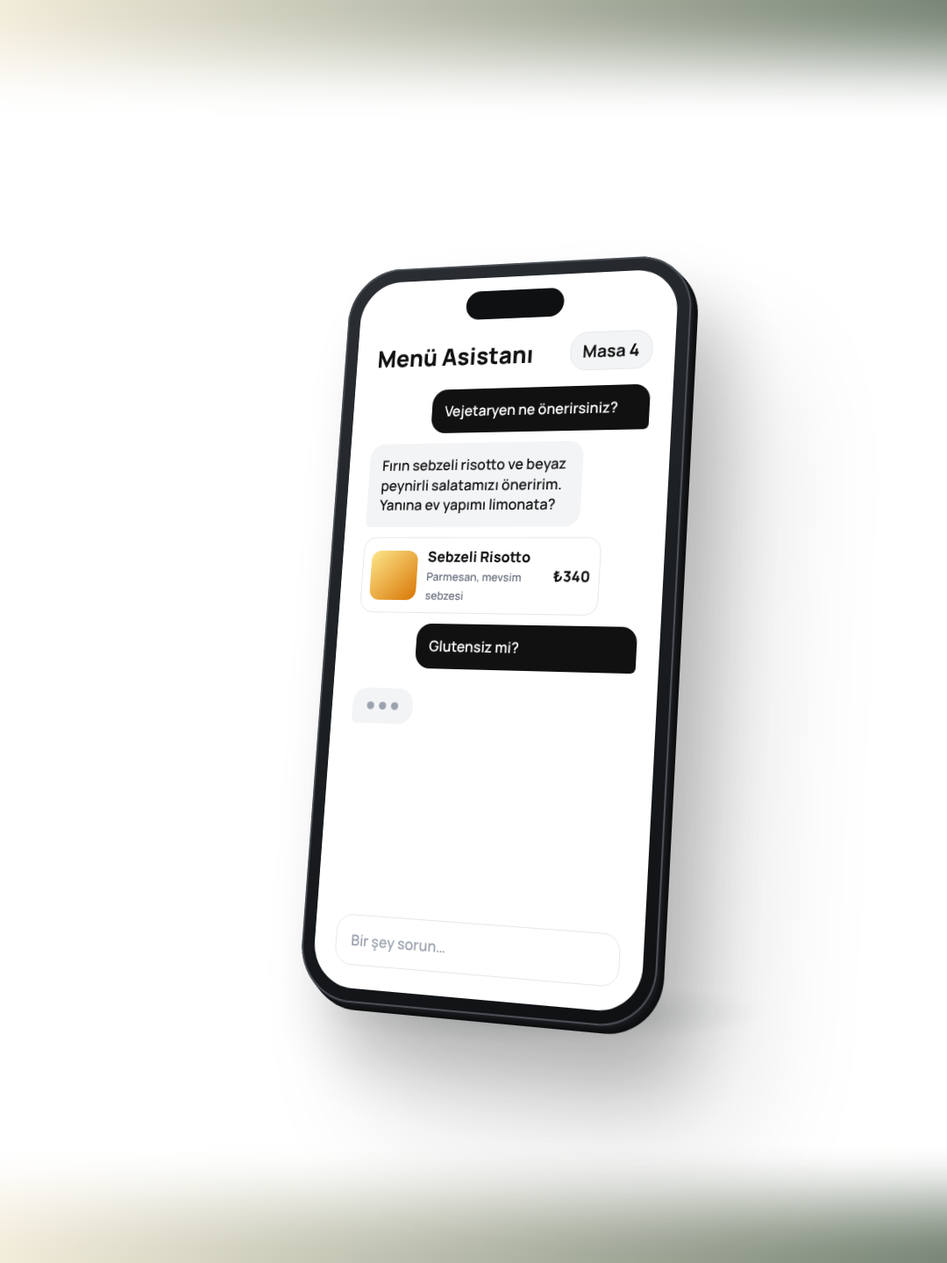
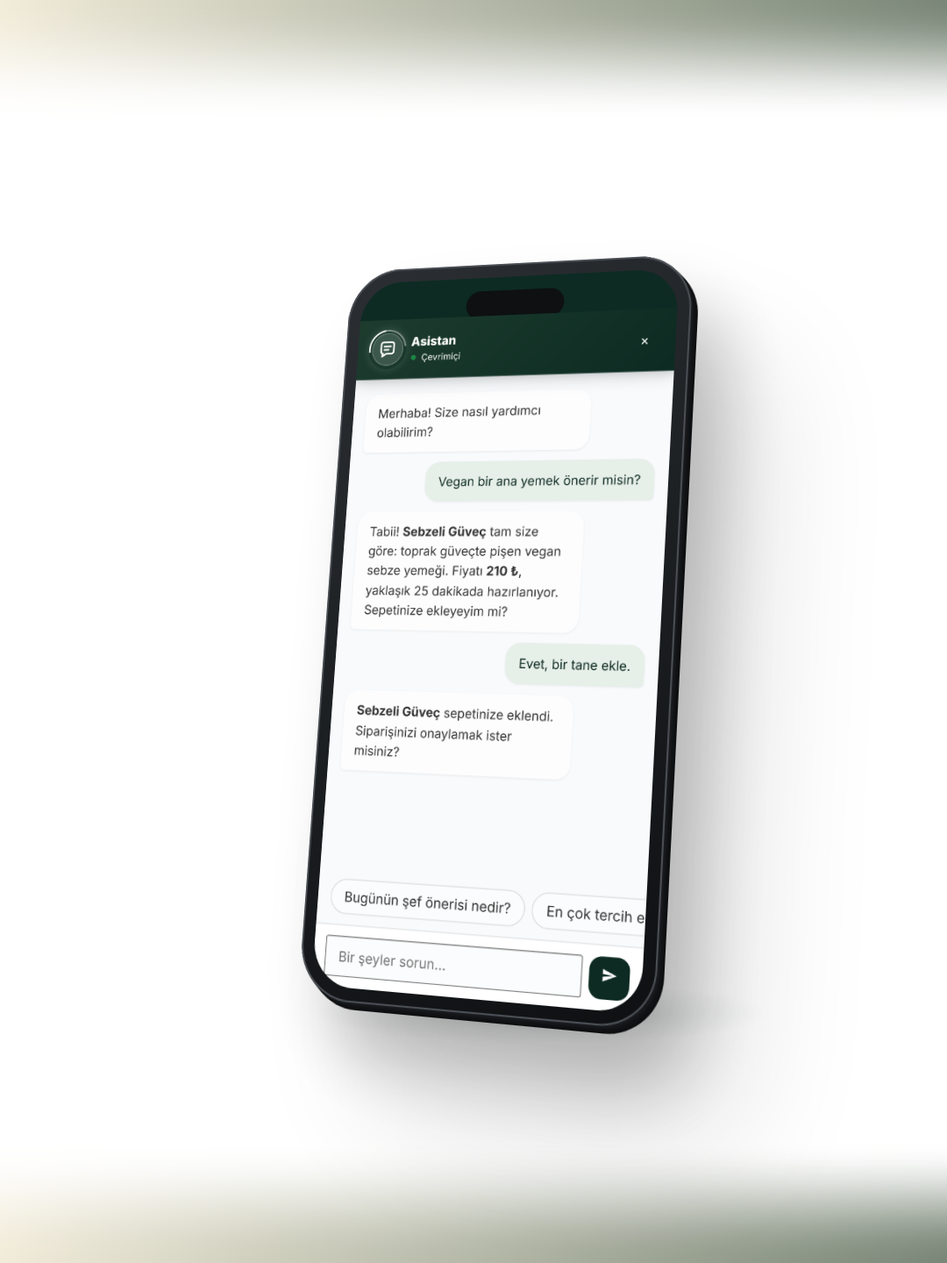
AI Chatbot split: gerçek asistan arayüzü ile ekran görüntüsü
Claude-Session: https://claude.ai/code/session_01FBw9rVwrniVjyFvtgVdFXq

diff --git a/tools/ig-split/ai-chatbot-b2.html b/tools/ig-split/ai-chatbot-b2.html
@@ -137,7 +137,7 @@ box-shadow:inset 0 0 0 1.5px #E6E8E8,0 1px 0 #ffffff inset,0 2px 0 #d9dcdc,0 4px
 .ch .inp{position:absolute;left:26px;right:26px;bottom:26px;border:1.5px solid #E5E7EB;border-radius:20px;padding:16px 18px;font-size:17px;color:#9CA3AF;font-weight:600}
 .faq .fr{display:flex;justify-content:space-between;align-items:center;padding:16px 0;border-bottom:1px solid #F0F1F3;font-size:24px;font-weight:600;color:#374151}
 .faq .fr:last-of-type{border-bottom:none}.faq .fr b{font-variant-numeric:tabular-nums;color:#111827}
-</style></head><body><div class="fx3" style="position:absolute;left:0px;top:0;width:1080px;height:1440px;pointer-events:none;background:linear-gradient(90deg in oklab,#F2ECDA 0%,color-mix(in oklab,#F2ECDA 50%,#0F2E23) 100%);-webkit-mask-image:linear-gradient(180deg,rgba(0,0,0,1.0000) 0.00px,rgba(0,0,0,0.9985) 3.50px,rgba(0,0,0,0.9938) 7.00px,rgba(0,0,0,0.9862) 10.50px,rgba(0,0,0,0.9755) 14.00px,rgba(0,0,0,0.9619) 17.50px,rgba(0,0,0,0.9455) 21.00px,rgba(0,0,0,0.9263) 24.50px,rgba(0,0,0,0.9045) 28.00px,rgba(0,0,0,0.8802) 31.50px,rgba(0,0,0,0.8536) 35.00px,rgba(0,0,0,0.8247) 38.50px,rgba(0,0,0,0.7939) 42.00px,rgba(0,0,0,0.7612) 45.50px,rgba(0,0,0,0.7270) 49.00px,rgba(0,0,0,0.6913) 52.50px,rgba(0,0,0,0.6545) 56.00px,rgba(0,0,0,0.6167) 59.50px,rgba(0,0,0,0.5782) 63.00px,rgba(0,0,0,0.5392) 66.50px,rgba(0,0,0,0.5000) 70.00px,rgba(0,0,0,0.4608) 73.50px,rgba(0,0,0,0.4218) 77.00px,rgba(0,0,0,0.3833) 80.50px,rgba(0,0,0,0.3455) 84.00px,rgba(0,0,0,0.3087) 87.50px,rgba(0,0,0,0.2730) 91.00px,rgba(0,0,0,0.2388) 94.50px,rgba(0,0,0,0.2061) 98.00px,rgba(0,0,0,0.1753) 101.50px,rgba(0,0,0,0.1464) 105.00px,rgba(0,0,0,0.1198) 108.50px,rgba(0,0,0,0.0955) 112.00px,rgba(0,0,0,0.0737) 115.50px,rgba(0,0,0,0.0545) 119.00px,rgba(0,0,0,0.0381) 122.50px,rgba(0,0,0,0.0245) 126.00px,rgba(0,0,0,0.0138) 129.50px,rgba(0,0,0,0.0062) 133.00px,rgba(0,0,0,0.0015) 136.50px,rgba(0,0,0,0.0000) 140.00px,rgba(0,0,0,0.0000) 1300.00px,rgba(0,0,0,0.0015) 1303.50px,rgba(0,0,0,0.0062) 1307.00px,rgba(0,0,0,0.0138) 1310.50px,rgba(0,0,0,0.0245) 1314.00px,rgba(0,0,0,0.0381) 1317.50px,rgba(0,0,0,0.0545) 1321.00px,rgba(0,0,0,0.0737) 1324.50px,rgba(0,0,0,0.0955) 1328.00px,rgba(0,0,0,0.1198) 1331.50px,rgba(0,0,0,0.1464) 1335.00px,rgba(0,0,0,0.1753) 1338.50px,rgba(0,0,0,0.2061) 1342.00px,rgba(0,0,0,0.2388) 1345.50px,rgba(0,0,0,0.2730) 1349.00px,rgba(0,0,0,0.3087) 1352.50px,rgba(0,0,0,0.3455) 1356.00px,rgba(0,0,0,0.3833) 1359.50px,rgba(0,0,0,0.4218) 1363.00px,rgba(0,0,0,0.4608) 1366.50px,rgba(0,0,0,0.5000) 1370.00px,rgba(0,0,0,0.5392) 1373.50px,rgba(0,0,0,0.5782) 1377.00px,rgba(0,0,0,0.6167) 1380.50px,rgba(0,0,0,0.6545) 1384.00px,rgba(0,0,0,0.6913) 1387.50px,rgba(0,0,0,0.7270) 1391.00px,rgba(0,0,0,0.7612) 1394.50px,rgba(0,0,0,0.7939) 1398.00px,rgba(0,0,0,0.8247) 1401.50px,rgba(0,0,0,0.8536) 1405.00px,rgba(0,0,0,0.8802) 1408.50px,rgba(0,0,0,0.9045) 1412.00px,rgba(0,0,0,0.9263) 1415.50px,rgba(0,0,0,0.9455) 1419.00px,rgba(0,0,0,0.9619) 1422.50px,rgba(0,0,0,0.9755) 1426.00px,rgba(0,0,0,0.9862) 1429.50px,rgba(0,0,0,0.9938) 1433.00px,rgba(0,0,0,0.9985) 1436.50px,rgba(0,0,0,1.0000) 1440.00px);mask-image:linear-gradient(180deg,rgba(0,0,0,1.0000) 0.00px,rgba(0,0,0,0.9985) 3.50px,rgba(0,0,0,0.9938) 7.00px,rgba(0,0,0,0.9862) 10.50px,rgba(0,0,0,0.9755) 14.00px,rgba(0,0,0,0.9619) 17.50px,rgba(0,0,0,0.9455) 21.00px,rgba(0,0,0,0.9263) 24.50px,rgba(0,0,0,0.9045) 28.00px,rgba(0,0,0,0.8802) 31.50px,rgba(0,0,0,0.8536) 35.00px,rgba(0,0,0,0.8247) 38.50px,rgba(0,0,0,0.7939) 42.00px,rgba(0,0,0,0.7612) 45.50px,rgba(0,0,0,0.7270) 49.00px,rgba(0,0,0,0.6913) 52.50px,rgba(0,0,0,0.6545) 56.00px,rgba(0,0,0,0.6167) 59.50px,rgba(0,0,0,0.5782) 63.00px,rgba(0,0,0,0.5392) 66.50px,rgba(0,0,0,0.5000) 70.00px,rgba(0,0,0,0.4608) 73.50px,rgba(0,0,0,0.4218) 77.00px,rgba(0,0,0,0.3833) 80.50px,rgba(0,0,0,0.3455) 84.00px,rgba(0,0,0,0.3087) 87.50px,rgba(0,0,0,0.2730) 91.00px,rgba(0,0,0,0.2388) 94.50px,rgba(0,0,0,0.2061) 98.00px,rgba(0,0,0,0.1753) 101.50px,rgba(0,0,0,0.1464) 105.00px,rgba(0,0,0,0.1198) 108.50px,rgba(0,0,0,0.0955) 112.00px,rgba(0,0,0,0.0737) 115.50px,rgba(0,0,0,0.0545) 119.00px,rgba(0,0,0,0.0381) 122.50px,rgba(0,0,0,0.0245) 126.00px,rgba(0,0,0,0.0138) 129.50px,rgba(0,0,0,0.0062) 133.00px,rgba(0,0,0,0.0015) 136.50px,rgba(0,0,0,0.0000) 140.00px,rgba(0,0,0,0.0000) 1300.00px,rgba(0,0,0,0.0015) 1303.50px,rgba(0,0,0,0.0062) 1307.00px,rgba(0,0,0,0.0138) 1310.50px,rgba(0,0,0,0.0245) 1314.00px,rgba(0,0,0,0.0381) 1317.50px,rgba(0,0,0,0.0545) 1321.00px,rgba(0,0,0,0.0737) 1324.50px,rgba(0,0,0,0.0955) 1328.00px,rgba(0,0,0,0.1198) 1331.50px,rgba(0,0,0,0.1464) 1335.00px,rgba(0,0,0,0.1753) 1338.50px,rgba(0,0,0,0.2061) 1342.00px,rgba(0,0,0,0.2388) 1345.50px,rgba(0,0,0,0.2730) 1349.00px,rgba(0,0,0,0.3087) 1352.50px,rgba(0,0,0,0.3455) 1356.00px,rgba(0,0,0,0.3833) 1359.50px,rgba(0,0,0,0.4218) 1363.00px,rgba(0,0,0,0.4608) 1366.50px,rgba(0,0,0,0.5000) 1370.00px,rgba(0,0,0,0.5392) 1373.50px,rgba(0,0,0,0.5782) 1377.00px,rgba(0,0,0,0.6167) 1380.50px,rgba(0,0,0,0.6545) 1384.00px,rgba(0,0,0,0.6913) 1387.50px,rgba(0,0,0,0.7270) 1391.00px,rgba(0,0,0,0.7612) 1394.50px,rgba(0,0,0,0.7939) 1398.00px,rgba(0,0,0,0.8247) 1401.50px,rgba(0,0,0,0.8536) 1405.00px,rgba(0,0,0,0.8802) 1408.50px,rgba(0,0,0,0.9045) 1412.00px,rgba(0,0,0,0.9263) 1415.50px,rgba(0,0,0,0.9455) 1419.00px,rgba(0,0,0,0.9619) 1422.50px,rgba(0,0,0,0.9755) 1426.00px,rgba(0,0,0,0.9862) 1429.50px,rgba(0,0,0,0.9938) 1433.00px,rgba(0,0,0,0.9985) 1436.50px,rgba(0,0,0,1.0000) 1440.00px)"></div><div class="fx3" style="position:absolute;left:1080px;top:0;width:1080px;height:1440px;pointer-events:none;background:linear-gradient(90deg in oklab,color-mix(in oklab,#F2ECDA 50%,#0F2E23) 0%,color-mix(in oklab,#0F2E23 58%,#EBDFBA) 50%,color-mix(in oklab,#E5D19A 50%,#0F2E23) 100%);-webkit-mask-image:linear-gradient(180deg,rgba(0,0,0,1.0000) 0.00px,rgba(0,0,0,0.9985) 3.50px,rgba(0,0,0,0.9938) 7.00px,rgba(0,0,0,0.9862) 10.50px,rgba(0,0,0,0.9755) 14.00px,rgba(0,0,0,0.9619) 17.50px,rgba(0,0,0,0.9455) 21.00px,rgba(0,0,0,0.9263) 24.50px,rgba(0,0,0,0.9045) 28.00px,rgba(0,0,0,0.8802) 31.50px,rgba(0,0,0,0.8536) 35.00px,rgba(0,0,0,0.8247) 38.50px,rgba(0,0,0,0.7939) 42.00px,rgba(0,0,0,0.7612) 45.50px,rgba(0,0,0,0.7270) 49.00px,rgba(0,0,0,0.6913) 52.50px,rgba(0,0,0,0.6545) 56.00px,rgba(0,0,0,0.6167) 59.50px,rgba(0,0,0,0.5782) 63.00px,rgba(0,0,0,0.5392) 66.50px,rgba(0,0,0,0.5000) 70.00px,rgba(0,0,0,0.4608) 73.50px,rgba(0,0,0,0.4218) 77.00px,rgba(0,0,0,0.3833) 80.50px,rgba(0,0,0,0.3455) 84.00px,rgba(0,0,0,0.3087) 87.50px,rgba(0,0,0,0.2730) 91.00px,rgba(0,0,0,0.2388) 94.50px,rgba(0,0,0,0.2061) 98.00px,rgba(0,0,0,0.1753) 101.50px,rgba(0,0,0,0.1464) 105.00px,rgba(0,0,0,0.1198) 108.50px,rgba(0,0,0,0.0955) 112.00px,rgba(0,0,0,0.0737) 115.50px,rgba(0,0,0,0.0545) 119.00px,rgba(0,0,0,0.0381) 122.50px,rgba(0,0,0,0.0245) 126.00px,rgba(0,0,0,0.0138) 129.50px,rgba(0,0,0,0.0062) 133.00px,rgba(0,0,0,0.0015) 136.50px,rgba(0,0,0,0.0000) 140.00px,rgba(0,0,0,0.0000) 1300.00px,rgba(0,0,0,0.0015) 1303.50px,rgba(0,0,0,0.0062) 1307.00px,rgba(0,0,0,0.0138) 1310.50px,rgba(0,0,0,0.0245) 1314.00px,rgba(0,0,0,0.0381) 1317.50px,rgba(0,0,0,0.0545) 1321.00px,rgba(0,0,0,0.0737) 1324.50px,rgba(0,0,0,0.0955) 1328.00px,rgba(0,0,0,0.1198) 1331.50px,rgba(0,0,0,0.1464) 1335.00px,rgba(0,0,0,0.1753) 1338.50px,rgba(0,0,0,0.2061) 1342.00px,rgba(0,0,0,0.2388) 1345.50px,rgba(0,0,0,0.2730) 1349.00px,rgba(0,0,0,0.3087) 1352.50px,rgba(0,0,0,0.3455) 1356.00px,rgba(0,0,0,0.3833) 1359.50px,rgba(0,0,0,0.4218) 1363.00px,rgba(0,0,0,0.4608) 1366.50px,rgba(0,0,0,0.5000) 1370.00px,rgba(0,0,0,0.5392) 1373.50px,rgba(0,0,0,0.5782) 1377.00px,rgba(0,0,0,0.6167) 1380.50px,rgba(0,0,0,0.6545) 1384.00px,rgba(0,0,0,0.6913) 1387.50px,rgba(0,0,0,0.7270) 1391.00px,rgba(0,0,0,0.7612) 1394.50px,rgba(0,0,0,0.7939) 1398.00px,rgba(0,0,0,0.8247) 1401.50px,rgba(0,0,0,0.8536) 1405.00px,rgba(0,0,0,0.8802) 1408.50px,rgba(0,0,0,0.9045) 1412.00px,rgba(0,0,0,0.9263) 1415.50px,rgba(0,0,0,0.9455) 1419.00px,rgba(0,0,0,0.9619) 1422.50px,rgba(0,0,0,0.9755) 1426.00px,rgba(0,0,0,0.9862) 1429.50px,rgba(0,0,0,0.9938) 1433.00px,rgba(0,0,0,0.9985) 1436.50px,rgba(0,0,0,1.0000) 1440.00px);mask-image:linear-gradient(180deg,rgba(0,0,0,1.0000) 0.00px,rgba(0,0,0,0.9985) 3.50px,rgba(0,0,0,0.9938) 7.00px,rgba(0,0,0,0.9862) 10.50px,rgba(0,0,0,0.9755) 14.00px,rgba(0,0,0,0.9619) 17.50px,rgba(0,0,0,0.9455) 21.00px,rgba(0,0,0,0.9263) 24.50px,rgba(0,0,0,0.9045) 28.00px,rgba(0,0,0,0.8802) 31.50px,rgba(0,0,0,0.8536) 35.00px,rgba(0,0,0,0.8247) 38.50px,rgba(0,0,0,0.7939) 42.00px,rgba(0,0,0,0.7612) 45.50px,rgba(0,0,0,0.7270) 49.00px,rgba(0,0,0,0.6913) 52.50px,rgba(0,0,0,0.6545) 56.00px,rgba(0,0,0,0.6167) 59.50px,rgba(0,0,0,0.5782) 63.00px,rgba(0,0,0,0.5392) 66.50px,rgba(0,0,0,0.5000) 70.00px,rgba(0,0,0,0.4608) 73.50px,rgba(0,0,0,0.4218) 77.00px,rgba(0,0,0,0.3833) 80.50px,rgba(0,0,0,0.3455) 84.00px,rgba(0,0,0,0.3087) 87.50px,rgba(0,0,0,0.2730) 91.00px,rgba(0,0,0,0.2388) 94.50px,rgba(0,0,0,0.2061) 98.00px,rgba(0,0,0,0.1753) 101.50px,rgba(0,0,0,0.1464) 105.00px,rgba(0,0,0,0.1198) 108.50px,rgba(0,0,0,0.0955) 112.00px,rgba(0,0,0,0.0737) 115.50px,rgba(0,0,0,0.0545) 119.00px,rgba(0,0,0,0.0381) 122.50px,rgba(0,0,0,0.0245) 126.00px,rgba(0,0,0,0.0138) 129.50px,rgba(0,0,0,0.0062) 133.00px,rgba(0,0,0,0.0015) 136.50px,rgba(0,0,0,0.0000) 140.00px,rgba(0,0,0,0.0000) 1300.00px,rgba(0,0,0,0.0015) 1303.50px,rgba(0,0,0,0.0062) 1307.00px,rgba(0,0,0,0.0138) 1310.50px,rgba(0,0,0,0.0245) 1314.00px,rgba(0,0,0,0.0381) 1317.50px,rgba(0,0,0,0.0545) 1321.00px,rgba(0,0,0,0.0737) 1324.50px,rgba(0,0,0,0.0955) 1328.00px,rgba(0,0,0,0.1198) 1331.50px,rgba(0,0,0,0.1464) 1335.00px,rgba(0,0,0,0.1753) 1338.50px,rgba(0,0,0,0.2061) 1342.00px,rgba(0,0,0,0.2388) 1345.50px,rgba(0,0,0,0.2730) 1349.00px,rgba(0,0,0,0.3087) 1352.50px,rgba(0,0,0,0.3455) 1356.00px,rgba(0,0,0,0.3833) 1359.50px,rgba(0,0,0,0.4218) 1363.00px,rgba(0,0,0,0.4608) 1366.50px,rgba(0,0,0,0.5000) 1370.00px,rgba(0,0,0,0.5392) 1373.50px,rgba(0,0,0,0.5782) 1377.00px,rgba(0,0,0,0.6167) 1380.50px,rgba(0,0,0,0.6545) 1384.00px,rgba(0,0,0,0.6913) 1387.50px,rgba(0,0,0,0.7270) 1391.00px,rgba(0,0,0,0.7612) 1394.50px,rgba(0,0,0,0.7939) 1398.00px,rgba(0,0,0,0.8247) 1401.50px,rgba(0,0,0,0.8536) 1405.00px,rgba(0,0,0,0.8802) 1408.50px,rgba(0,0,0,0.9045) 1412.00px,rgba(0,0,0,0.9263) 1415.50px,rgba(0,0,0,0.9455) 1419.00px,rgba(0,0,0,0.9619) 1422.50px,rgba(0,0,0,0.9755) 1426.00px,rgba(0,0,0,0.9862) 1429.50px,rgba(0,0,0,0.9938) 1433.00px,rgba(0,0,0,0.9985) 1436.50px,rgba(0,0,0,1.0000) 1440.00px)"></div><div class="fx3" style="position:absolute;left:2160px;top:0;width:1080px;height:1440px;pointer-events:none;background:linear-gradient(90deg in oklab,color-mix(in oklab,#E5D19A 50%,#0F2E23) 0%,#E5D19A 100%);-webkit-mask-image:linear-gradient(180deg,rgba(0,0,0,1.0000) 0.00px,rgba(0,0,0,0.9985) 3.50px,rgba(0,0,0,0.9938) 7.00px,rgba(0,0,0,0.9862) 10.50px,rgba(0,0,0,0.9755) 14.00px,rgba(0,0,0,0.9619) 17.50px,rgba(0,0,0,0.9455) 21.00px,rgba(0,0,0,0.9263) 24.50px,rgba(0,0,0,0.9045) 28.00px,rgba(0,0,0,0.8802) 31.50px,rgba(0,0,0,0.8536) 35.00px,rgba(0,0,0,0.8247) 38.50px,rgba(0,0,0,0.7939) 42.00px,rgba(0,0,0,0.7612) 45.50px,rgba(0,0,0,0.7270) 49.00px,rgba(0,0,0,0.6913) 52.50px,rgba(0,0,0,0.6545) 56.00px,rgba(0,0,0,0.6167) 59.50px,rgba(0,0,0,0.5782) 63.00px,rgba(0,0,0,0.5392) 66.50px,rgba(0,0,0,0.5000) 70.00px,rgba(0,0,0,0.4608) 73.50px,rgba(0,0,0,0.4218) 77.00px,rgba(0,0,0,0.3833) 80.50px,rgba(0,0,0,0.3455) 84.00px,rgba(0,0,0,0.3087) 87.50px,rgba(0,0,0,0.2730) 91.00px,rgba(0,0,0,0.2388) 94.50px,rgba(0,0,0,0.2061) 98.00px,rgba(0,0,0,0.1753) 101.50px,rgba(0,0,0,0.1464) 105.00px,rgba(0,0,0,0.1198) 108.50px,rgba(0,0,0,0.0955) 112.00px,rgba(0,0,0,0.0737) 115.50px,rgba(0,0,0,0.0545) 119.00px,rgba(0,0,0,0.0381) 122.50px,rgba(0,0,0,0.0245) 126.00px,rgba(0,0,0,0.0138) 129.50px,rgba(0,0,0,0.0062) 133.00px,rgba(0,0,0,0.0015) 136.50px,rgba(0,0,0,0.0000) 140.00px,rgba(0,0,0,0.0000) 1300.00px,rgba(0,0,0,0.0015) 1303.50px,rgba(0,0,0,0.0062) 1307.00px,rgba(0,0,0,0.0138) 1310.50px,rgba(0,0,0,0.0245) 1314.00px,rgba(0,0,0,0.0381) 1317.50px,rgba(0,0,0,0.0545) 1321.00px,rgba(0,0,0,0.0737) 1324.50px,rgba(0,0,0,0.0955) 1328.00px,rgba(0,0,0,0.1198) 1331.50px,rgba(0,0,0,0.1464) 1335.00px,rgba(0,0,0,0.1753) 1338.50px,rgba(0,0,0,0.2061) 1342.00px,rgba(0,0,0,0.2388) 1345.50px,rgba(0,0,0,0.2730) 1349.00px,rgba(0,0,0,0.3087) 1352.50px,rgba(0,0,0,0.3455) 1356.00px,rgba(0,0,0,0.3833) 1359.50px,rgba(0,0,0,0.4218) 1363.00px,rgba(0,0,0,0.4608) 1366.50px,rgba(0,0,0,0.5000) 1370.00px,rgba(0,0,0,0.5392) 1373.50px,rgba(0,0,0,0.5782) 1377.00px,rgba(0,0,0,0.6167) 1380.50px,rgba(0,0,0,0.6545) 1384.00px,rgba(0,0,0,0.6913) 1387.50px,rgba(0,0,0,0.7270) 1391.00px,rgba(0,0,0,0.7612) 1394.50px,rgba(0,0,0,0.7939) 1398.00px,rgba(0,0,0,0.8247) 1401.50px,rgba(0,0,0,0.8536) 1405.00px,rgba(0,0,0,0.8802) 1408.50px,rgba(0,0,0,0.9045) 1412.00px,rgba(0,0,0,0.9263) 1415.50px,rgba(0,0,0,0.9455) 1419.00px,rgba(0,0,0,0.9619) 1422.50px,rgba(0,0,0,0.9755) 1426.00px,rgba(0,0,0,0.9862) 1429.50px,rgba(0,0,0,0.9938) 1433.00px,rgba(0,0,0,0.9985) 1436.50px,rgba(0,0,0,1.0000) 1440.00px);mask-image:linear-gradient(180deg,rgba(0,0,0,1.0000) 0.00px,rgba(0,0,0,0.9985) 3.50px,rgba(0,0,0,0.9938) 7.00px,rgba(0,0,0,0.9862) 10.50px,rgba(0,0,0,0.9755) 14.00px,rgba(0,0,0,0.9619) 17.50px,rgba(0,0,0,0.9455) 21.00px,rgba(0,0,0,0.9263) 24.50px,rgba(0,0,0,0.9045) 28.00px,rgba(0,0,0,0.8802) 31.50px,rgba(0,0,0,0.8536) 35.00px,rgba(0,0,0,0.8247) 38.50px,rgba(0,0,0,0.7939) 42.00px,rgba(0,0,0,0.7612) 45.50px,rgba(0,0,0,0.7270) 49.00px,rgba(0,0,0,0.6913) 52.50px,rgba(0,0,0,0.6545) 56.00px,rgba(0,0,0,0.6167) 59.50px,rgba(0,0,0,0.5782) 63.00px,rgba(0,0,0,0.5392) 66.50px,rgba(0,0,0,0.5000) 70.00px,rgba(0,0,0,0.4608) 73.50px,rgba(0,0,0,0.4218) 77.00px,rgba(0,0,0,0.3833) 80.50px,rgba(0,0,0,0.3455) 84.00px,rgba(0,0,0,0.3087) 87.50px,rgba(0,0,0,0.2730) 91.00px,rgba(0,0,0,0.2388) 94.50px,rgba(0,0,0,0.2061) 98.00px,rgba(0,0,0,0.1753) 101.50px,rgba(0,0,0,0.1464) 105.00px,rgba(0,0,0,0.1198) 108.50px,rgba(0,0,0,0.0955) 112.00px,rgba(0,0,0,0.0737) 115.50px,rgba(0,0,0,0.0545) 119.00px,rgba(0,0,0,0.0381) 122.50px,rgba(0,0,0,0.0245) 126.00px,rgba(0,0,0,0.0138) 129.50px,rgba(0,0,0,0.0062) 133.00px,rgba(0,0,0,0.0015) 136.50px,rgba(0,0,0,0.0000) 140.00px,rgba(0,0,0,0.0000) 1300.00px,rgba(0,0,0,0.0015) 1303.50px,rgba(0,0,0,0.0062) 1307.00px,rgba(0,0,0,0.0138) 1310.50px,rgba(0,0,0,0.0245) 1314.00px,rgba(0,0,0,0.0381) 1317.50px,rgba(0,0,0,0.0545) 1321.00px,rgba(0,0,0,0.0737) 1324.50px,rgba(0,0,0,0.0955) 1328.00px,rgba(0,0,0,0.1198) 1331.50px,rgba(0,0,0,0.1464) 1335.00px,rgba(0,0,0,0.1753) 1338.50px,rgba(0,0,0,0.2061) 1342.00px,rgba(0,0,0,0.2388) 1345.50px,rgba(0,0,0,0.2730) 1349.00px,rgba(0,0,0,0.3087) 1352.50px,rgba(0,0,0,0.3455) 1356.00px,rgba(0,0,0,0.3833) 1359.50px,rgba(0,0,0,0.4218) 1363.00px,rgba(0,0,0,0.4608) 1366.50px,rgba(0,0,0,0.5000) 1370.00px,rgba(0,0,0,0.5392) 1373.50px,rgba(0,0,0,0.5782) 1377.00px,rgba(0,0,0,0.6167) 1380.50px,rgba(0,0,0,0.6545) 1384.00px,rgba(0,0,0,0.6913) 1387.50px,rgba(0,0,0,0.7270) 1391.00px,rgba(0,0,0,0.7612) 1394.50px,rgba(0,0,0,0.7939) 1398.00px,rgba(0,0,0,0.8247) 1401.50px,rgba(0,0,0,0.8536) 1405.00px,rgba(0,0,0,0.8802) 1408.50px,rgba(0,0,0,0.9045) 1412.00px,rgba(0,0,0,0.9263) 1415.50px,rgba(0,0,0,0.9455) 1419.00px,rgba(0,0,0,0.9619) 1422.50px,rgba(0,0,0,0.9755) 1426.00px,rgba(0,0,0,0.9862) 1429.50px,rgba(0,0,0,0.9938) 1433.00px,rgba(0,0,0,0.9985) 1436.50px,rgba(0,0,0,1.0000) 1440.00px)"></div>
+.scr:has(.real){background:#0D2B22}.real{position:absolute;inset:46px 0 0 0;overflow:hidden}.real img{width:100%;display:block}</style></head><body><div class="fx3" style="position:absolute;left:0px;top:0;width:1080px;height:1440px;pointer-events:none;background:linear-gradient(90deg in oklab,#F2ECDA 0%,color-mix(in oklab,#F2ECDA 50%,#0F2E23) 100%);-webkit-mask-image:linear-gradient(180deg,rgba(0,0,0,1.0000) 0.00px,rgba(0,0,0,0.9985) 3.50px,rgba(0,0,0,0.9938) 7.00px,rgba(0,0,0,0.9862) 10.50px,rgba(0,0,0,0.9755) 14.00px,rgba(0,0,0,0.9619) 17.50px,rgba(0,0,0,0.9455) 21.00px,rgba(0,0,0,0.9263) 24.50px,rgba(0,0,0,0.9045) 28.00px,rgba(0,0,0,0.8802) 31.50px,rgba(0,0,0,0.8536) 35.00px,rgba(0,0,0,0.8247) 38.50px,rgba(0,0,0,0.7939) 42.00px,rgba(0,0,0,0.7612) 45.50px,rgba(0,0,0,0.7270) 49.00px,rgba(0,0,0,0.6913) 52.50px,rgba(0,0,0,0.6545) 56.00px,rgba(0,0,0,0.6167) 59.50px,rgba(0,0,0,0.5782) 63.00px,rgba(0,0,0,0.5392) 66.50px,rgba(0,0,0,0.5000) 70.00px,rgba(0,0,0,0.4608) 73.50px,rgba(0,0,0,0.4218) 77.00px,rgba(0,0,0,0.3833) 80.50px,rgba(0,0,0,0.3455) 84.00px,rgba(0,0,0,0.3087) 87.50px,rgba(0,0,0,0.2730) 91.00px,rgba(0,0,0,0.2388) 94.50px,rgba(0,0,0,0.2061) 98.00px,rgba(0,0,0,0.1753) 101.50px,rgba(0,0,0,0.1464) 105.00px,rgba(0,0,0,0.1198) 108.50px,rgba(0,0,0,0.0955) 112.00px,rgba(0,0,0,0.0737) 115.50px,rgba(0,0,0,0.0545) 119.00px,rgba(0,0,0,0.0381) 122.50px,rgba(0,0,0,0.0245) 126.00px,rgba(0,0,0,0.0138) 129.50px,rgba(0,0,0,0.0062) 133.00px,rgba(0,0,0,0.0015) 136.50px,rgba(0,0,0,0.0000) 140.00px,rgba(0,0,0,0.0000) 1300.00px,rgba(0,0,0,0.0015) 1303.50px,rgba(0,0,0,0.0062) 1307.00px,rgba(0,0,0,0.0138) 1310.50px,rgba(0,0,0,0.0245) 1314.00px,rgba(0,0,0,0.0381) 1317.50px,rgba(0,0,0,0.0545) 1321.00px,rgba(0,0,0,0.0737) 1324.50px,rgba(0,0,0,0.0955) 1328.00px,rgba(0,0,0,0.1198) 1331.50px,rgba(0,0,0,0.1464) 1335.00px,rgba(0,0,0,0.1753) 1338.50px,rgba(0,0,0,0.2061) 1342.00px,rgba(0,0,0,0.2388) 1345.50px,rgba(0,0,0,0.2730) 1349.00px,rgba(0,0,0,0.3087) 1352.50px,rgba(0,0,0,0.3455) 1356.00px,rgba(0,0,0,0.3833) 1359.50px,rgba(0,0,0,0.4218) 1363.00px,rgba(0,0,0,0.4608) 1366.50px,rgba(0,0,0,0.5000) 1370.00px,rgba(0,0,0,0.5392) 1373.50px,rgba(0,0,0,0.5782) 1377.00px,rgba(0,0,0,0.6167) 1380.50px,rgba(0,0,0,0.6545) 1384.00px,rgba(0,0,0,0.6913) 1387.50px,rgba(0,0,0,0.7270) 1391.00px,rgba(0,0,0,0.7612) 1394.50px,rgba(0,0,0,0.7939) 1398.00px,rgba(0,0,0,0.8247) 1401.50px,rgba(0,0,0,0.8536) 1405.00px,rgba(0,0,0,0.8802) 1408.50px,rgba(0,0,0,0.9045) 1412.00px,rgba(0,0,0,0.9263) 1415.50px,rgba(0,0,0,0.9455) 1419.00px,rgba(0,0,0,0.9619) 1422.50px,rgba(0,0,0,0.9755) 1426.00px,rgba(0,0,0,0.9862) 1429.50px,rgba(0,0,0,0.9938) 1433.00px,rgba(0,0,0,0.9985) 1436.50px,rgba(0,0,0,1.0000) 1440.00px);mask-image:linear-gradient(180deg,rgba(0,0,0,1.0000) 0.00px,rgba(0,0,0,0.9985) 3.50px,rgba(0,0,0,0.9938) 7.00px,rgba(0,0,0,0.9862) 10.50px,rgba(0,0,0,0.9755) 14.00px,rgba(0,0,0,0.9619) 17.50px,rgba(0,0,0,0.9455) 21.00px,rgba(0,0,0,0.9263) 24.50px,rgba(0,0,0,0.9045) 28.00px,rgba(0,0,0,0.8802) 31.50px,rgba(0,0,0,0.8536) 35.00px,rgba(0,0,0,0.8247) 38.50px,rgba(0,0,0,0.7939) 42.00px,rgba(0,0,0,0.7612) 45.50px,rgba(0,0,0,0.7270) 49.00px,rgba(0,0,0,0.6913) 52.50px,rgba(0,0,0,0.6545) 56.00px,rgba(0,0,0,0.6167) 59.50px,rgba(0,0,0,0.5782) 63.00px,rgba(0,0,0,0.5392) 66.50px,rgba(0,0,0,0.5000) 70.00px,rgba(0,0,0,0.4608) 73.50px,rgba(0,0,0,0.4218) 77.00px,rgba(0,0,0,0.3833) 80.50px,rgba(0,0,0,0.3455) 84.00px,rgba(0,0,0,0.3087) 87.50px,rgba(0,0,0,0.2730) 91.00px,rgba(0,0,0,0.2388) 94.50px,rgba(0,0,0,0.2061) 98.00px,rgba(0,0,0,0.1753) 101.50px,rgba(0,0,0,0.1464) 105.00px,rgba(0,0,0,0.1198) 108.50px,rgba(0,0,0,0.0955) 112.00px,rgba(0,0,0,0.0737) 115.50px,rgba(0,0,0,0.0545) 119.00px,rgba(0,0,0,0.0381) 122.50px,rgba(0,0,0,0.0245) 126.00px,rgba(0,0,0,0.0138) 129.50px,rgba(0,0,0,0.0062) 133.00px,rgba(0,0,0,0.0015) 136.50px,rgba(0,0,0,0.0000) 140.00px,rgba(0,0,0,0.0000) 1300.00px,rgba(0,0,0,0.0015) 1303.50px,rgba(0,0,0,0.0062) 1307.00px,rgba(0,0,0,0.0138) 1310.50px,rgba(0,0,0,0.0245) 1314.00px,rgba(0,0,0,0.0381) 1317.50px,rgba(0,0,0,0.0545) 1321.00px,rgba(0,0,0,0.0737) 1324.50px,rgba(0,0,0,0.0955) 1328.00px,rgba(0,0,0,0.1198) 1331.50px,rgba(0,0,0,0.1464) 1335.00px,rgba(0,0,0,0.1753) 1338.50px,rgba(0,0,0,0.2061) 1342.00px,rgba(0,0,0,0.2388) 1345.50px,rgba(0,0,0,0.2730) 1349.00px,rgba(0,0,0,0.3087) 1352.50px,rgba(0,0,0,0.3455) 1356.00px,rgba(0,0,0,0.3833) 1359.50px,rgba(0,0,0,0.4218) 1363.00px,rgba(0,0,0,0.4608) 1366.50px,rgba(0,0,0,0.5000) 1370.00px,rgba(0,0,0,0.5392) 1373.50px,rgba(0,0,0,0.5782) 1377.00px,rgba(0,0,0,0.6167) 1380.50px,rgba(0,0,0,0.6545) 1384.00px,rgba(0,0,0,0.6913) 1387.50px,rgba(0,0,0,0.7270) 1391.00px,rgba(0,0,0,0.7612) 1394.50px,rgba(0,0,0,0.7939) 1398.00px,rgba(0,0,0,0.8247) 1401.50px,rgba(0,0,0,0.8536) 1405.00px,rgba(0,0,0,0.8802) 1408.50px,rgba(0,0,0,0.9045) 1412.00px,rgba(0,0,0,0.9263) 1415.50px,rgba(0,0,0,0.9455) 1419.00px,rgba(0,0,0,0.9619) 1422.50px,rgba(0,0,0,0.9755) 1426.00px,rgba(0,0,0,0.9862) 1429.50px,rgba(0,0,0,0.9938) 1433.00px,rgba(0,0,0,0.9985) 1436.50px,rgba(0,0,0,1.0000) 1440.00px)"></div><div class="fx3" style="position:absolute;left:1080px;top:0;width:1080px;height:1440px;pointer-events:none;background:linear-gradient(90deg in oklab,color-mix(in oklab,#F2ECDA 50%,#0F2E23) 0%,color-mix(in oklab,#0F2E23 58%,#EBDFBA) 50%,color-mix(in oklab,#E5D19A 50%,#0F2E23) 100%);-webkit-mask-image:linear-gradient(180deg,rgba(0,0,0,1.0000) 0.00px,rgba(0,0,0,0.9985) 3.50px,rgba(0,0,0,0.9938) 7.00px,rgba(0,0,0,0.9862) 10.50px,rgba(0,0,0,0.9755) 14.00px,rgba(0,0,0,0.9619) 17.50px,rgba(0,0,0,0.9455) 21.00px,rgba(0,0,0,0.9263) 24.50px,rgba(0,0,0,0.9045) 28.00px,rgba(0,0,0,0.8802) 31.50px,rgba(0,0,0,0.8536) 35.00px,rgba(0,0,0,0.8247) 38.50px,rgba(0,0,0,0.7939) 42.00px,rgba(0,0,0,0.7612) 45.50px,rgba(0,0,0,0.7270) 49.00px,rgba(0,0,0,0.6913) 52.50px,rgba(0,0,0,0.6545) 56.00px,rgba(0,0,0,0.6167) 59.50px,rgba(0,0,0,0.5782) 63.00px,rgba(0,0,0,0.5392) 66.50px,rgba(0,0,0,0.5000) 70.00px,rgba(0,0,0,0.4608) 73.50px,rgba(0,0,0,0.4218) 77.00px,rgba(0,0,0,0.3833) 80.50px,rgba(0,0,0,0.3455) 84.00px,rgba(0,0,0,0.3087) 87.50px,rgba(0,0,0,0.2730) 91.00px,rgba(0,0,0,0.2388) 94.50px,rgba(0,0,0,0.2061) 98.00px,rgba(0,0,0,0.1753) 101.50px,rgba(0,0,0,0.1464) 105.00px,rgba(0,0,0,0.1198) 108.50px,rgba(0,0,0,0.0955) 112.00px,rgba(0,0,0,0.0737) 115.50px,rgba(0,0,0,0.0545) 119.00px,rgba(0,0,0,0.0381) 122.50px,rgba(0,0,0,0.0245) 126.00px,rgba(0,0,0,0.0138) 129.50px,rgba(0,0,0,0.0062) 133.00px,rgba(0,0,0,0.0015) 136.50px,rgba(0,0,0,0.0000) 140.00px,rgba(0,0,0,0.0000) 1300.00px,rgba(0,0,0,0.0015) 1303.50px,rgba(0,0,0,0.0062) 1307.00px,rgba(0,0,0,0.0138) 1310.50px,rgba(0,0,0,0.0245) 1314.00px,rgba(0,0,0,0.0381) 1317.50px,rgba(0,0,0,0.0545) 1321.00px,rgba(0,0,0,0.0737) 1324.50px,rgba(0,0,0,0.0955) 1328.00px,rgba(0,0,0,0.1198) 1331.50px,rgba(0,0,0,0.1464) 1335.00px,rgba(0,0,0,0.1753) 1338.50px,rgba(0,0,0,0.2061) 1342.00px,rgba(0,0,0,0.2388) 1345.50px,rgba(0,0,0,0.2730) 1349.00px,rgba(0,0,0,0.3087) 1352.50px,rgba(0,0,0,0.3455) 1356.00px,rgba(0,0,0,0.3833) 1359.50px,rgba(0,0,0,0.4218) 1363.00px,rgba(0,0,0,0.4608) 1366.50px,rgba(0,0,0,0.5000) 1370.00px,rgba(0,0,0,0.5392) 1373.50px,rgba(0,0,0,0.5782) 1377.00px,rgba(0,0,0,0.6167) 1380.50px,rgba(0,0,0,0.6545) 1384.00px,rgba(0,0,0,0.6913) 1387.50px,rgba(0,0,0,0.7270) 1391.00px,rgba(0,0,0,0.7612) 1394.50px,rgba(0,0,0,0.7939) 1398.00px,rgba(0,0,0,0.8247) 1401.50px,rgba(0,0,0,0.8536) 1405.00px,rgba(0,0,0,0.8802) 1408.50px,rgba(0,0,0,0.9045) 1412.00px,rgba(0,0,0,0.9263) 1415.50px,rgba(0,0,0,0.9455) 1419.00px,rgba(0,0,0,0.9619) 1422.50px,rgba(0,0,0,0.9755) 1426.00px,rgba(0,0,0,0.9862) 1429.50px,rgba(0,0,0,0.9938) 1433.00px,rgba(0,0,0,0.9985) 1436.50px,rgba(0,0,0,1.0000) 1440.00px);mask-image:linear-gradient(180deg,rgba(0,0,0,1.0000) 0.00px,rgba(0,0,0,0.9985) 3.50px,rgba(0,0,0,0.9938) 7.00px,rgba(0,0,0,0.9862) 10.50px,rgba(0,0,0,0.9755) 14.00px,rgba(0,0,0,0.9619) 17.50px,rgba(0,0,0,0.9455) 21.00px,rgba(0,0,0,0.9263) 24.50px,rgba(0,0,0,0.9045) 28.00px,rgba(0,0,0,0.8802) 31.50px,rgba(0,0,0,0.8536) 35.00px,rgba(0,0,0,0.8247) 38.50px,rgba(0,0,0,0.7939) 42.00px,rgba(0,0,0,0.7612) 45.50px,rgba(0,0,0,0.7270) 49.00px,rgba(0,0,0,0.6913) 52.50px,rgba(0,0,0,0.6545) 56.00px,rgba(0,0,0,0.6167) 59.50px,rgba(0,0,0,0.5782) 63.00px,rgba(0,0,0,0.5392) 66.50px,rgba(0,0,0,0.5000) 70.00px,rgba(0,0,0,0.4608) 73.50px,rgba(0,0,0,0.4218) 77.00px,rgba(0,0,0,0.3833) 80.50px,rgba(0,0,0,0.3455) 84.00px,rgba(0,0,0,0.3087) 87.50px,rgba(0,0,0,0.2730) 91.00px,rgba(0,0,0,0.2388) 94.50px,rgba(0,0,0,0.2061) 98.00px,rgba(0,0,0,0.1753) 101.50px,rgba(0,0,0,0.1464) 105.00px,rgba(0,0,0,0.1198) 108.50px,rgba(0,0,0,0.0955) 112.00px,rgba(0,0,0,0.0737) 115.50px,rgba(0,0,0,0.0545) 119.00px,rgba(0,0,0,0.0381) 122.50px,rgba(0,0,0,0.0245) 126.00px,rgba(0,0,0,0.0138) 129.50px,rgba(0,0,0,0.0062) 133.00px,rgba(0,0,0,0.0015) 136.50px,rgba(0,0,0,0.0000) 140.00px,rgba(0,0,0,0.0000) 1300.00px,rgba(0,0,0,0.0015) 1303.50px,rgba(0,0,0,0.0062) 1307.00px,rgba(0,0,0,0.0138) 1310.50px,rgba(0,0,0,0.0245) 1314.00px,rgba(0,0,0,0.0381) 1317.50px,rgba(0,0,0,0.0545) 1321.00px,rgba(0,0,0,0.0737) 1324.50px,rgba(0,0,0,0.0955) 1328.00px,rgba(0,0,0,0.1198) 1331.50px,rgba(0,0,0,0.1464) 1335.00px,rgba(0,0,0,0.1753) 1338.50px,rgba(0,0,0,0.2061) 1342.00px,rgba(0,0,0,0.2388) 1345.50px,rgba(0,0,0,0.2730) 1349.00px,rgba(0,0,0,0.3087) 1352.50px,rgba(0,0,0,0.3455) 1356.00px,rgba(0,0,0,0.3833) 1359.50px,rgba(0,0,0,0.4218) 1363.00px,rgba(0,0,0,0.4608) 1366.50px,rgba(0,0,0,0.5000) 1370.00px,rgba(0,0,0,0.5392) 1373.50px,rgba(0,0,0,0.5782) 1377.00px,rgba(0,0,0,0.6167) 1380.50px,rgba(0,0,0,0.6545) 1384.00px,rgba(0,0,0,0.6913) 1387.50px,rgba(0,0,0,0.7270) 1391.00px,rgba(0,0,0,0.7612) 1394.50px,rgba(0,0,0,0.7939) 1398.00px,rgba(0,0,0,0.8247) 1401.50px,rgba(0,0,0,0.8536) 1405.00px,rgba(0,0,0,0.8802) 1408.50px,rgba(0,0,0,0.9045) 1412.00px,rgba(0,0,0,0.9263) 1415.50px,rgba(0,0,0,0.9455) 1419.00px,rgba(0,0,0,0.9619) 1422.50px,rgba(0,0,0,0.9755) 1426.00px,rgba(0,0,0,0.9862) 1429.50px,rgba(0,0,0,0.9938) 1433.00px,rgba(0,0,0,0.9985) 1436.50px,rgba(0,0,0,1.0000) 1440.00px)"></div><div class="fx3" style="position:absolute;left:2160px;top:0;width:1080px;height:1440px;pointer-events:none;background:linear-gradient(90deg in oklab,color-mix(in oklab,#E5D19A 50%,#0F2E23) 0%,#E5D19A 100%);-webkit-mask-image:linear-gradient(180deg,rgba(0,0,0,1.0000) 0.00px,rgba(0,0,0,0.9985) 3.50px,rgba(0,0,0,0.9938) 7.00px,rgba(0,0,0,0.9862) 10.50px,rgba(0,0,0,0.9755) 14.00px,rgba(0,0,0,0.9619) 17.50px,rgba(0,0,0,0.9455) 21.00px,rgba(0,0,0,0.9263) 24.50px,rgba(0,0,0,0.9045) 28.00px,rgba(0,0,0,0.8802) 31.50px,rgba(0,0,0,0.8536) 35.00px,rgba(0,0,0,0.8247) 38.50px,rgba(0,0,0,0.7939) 42.00px,rgba(0,0,0,0.7612) 45.50px,rgba(0,0,0,0.7270) 49.00px,rgba(0,0,0,0.6913) 52.50px,rgba(0,0,0,0.6545) 56.00px,rgba(0,0,0,0.6167) 59.50px,rgba(0,0,0,0.5782) 63.00px,rgba(0,0,0,0.5392) 66.50px,rgba(0,0,0,0.5000) 70.00px,rgba(0,0,0,0.4608) 73.50px,rgba(0,0,0,0.4218) 77.00px,rgba(0,0,0,0.3833) 80.50px,rgba(0,0,0,0.3455) 84.00px,rgba(0,0,0,0.3087) 87.50px,rgba(0,0,0,0.2730) 91.00px,rgba(0,0,0,0.2388) 94.50px,rgba(0,0,0,0.2061) 98.00px,rgba(0,0,0,0.1753) 101.50px,rgba(0,0,0,0.1464) 105.00px,rgba(0,0,0,0.1198) 108.50px,rgba(0,0,0,0.0955) 112.00px,rgba(0,0,0,0.0737) 115.50px,rgba(0,0,0,0.0545) 119.00px,rgba(0,0,0,0.0381) 122.50px,rgba(0,0,0,0.0245) 126.00px,rgba(0,0,0,0.0138) 129.50px,rgba(0,0,0,0.0062) 133.00px,rgba(0,0,0,0.0015) 136.50px,rgba(0,0,0,0.0000) 140.00px,rgba(0,0,0,0.0000) 1300.00px,rgba(0,0,0,0.0015) 1303.50px,rgba(0,0,0,0.0062) 1307.00px,rgba(0,0,0,0.0138) 1310.50px,rgba(0,0,0,0.0245) 1314.00px,rgba(0,0,0,0.0381) 1317.50px,rgba(0,0,0,0.0545) 1321.00px,rgba(0,0,0,0.0737) 1324.50px,rgba(0,0,0,0.0955) 1328.00px,rgba(0,0,0,0.1198) 1331.50px,rgba(0,0,0,0.1464) 1335.00px,rgba(0,0,0,0.1753) 1338.50px,rgba(0,0,0,0.2061) 1342.00px,rgba(0,0,0,0.2388) 1345.50px,rgba(0,0,0,0.2730) 1349.00px,rgba(0,0,0,0.3087) 1352.50px,rgba(0,0,0,0.3455) 1356.00px,rgba(0,0,0,0.3833) 1359.50px,rgba(0,0,0,0.4218) 1363.00px,rgba(0,0,0,0.4608) 1366.50px,rgba(0,0,0,0.5000) 1370.00px,rgba(0,0,0,0.5392) 1373.50px,rgba(0,0,0,0.5782) 1377.00px,rgba(0,0,0,0.6167) 1380.50px,rgba(0,0,0,0.6545) 1384.00px,rgba(0,0,0,0.6913) 1387.50px,rgba(0,0,0,0.7270) 1391.00px,rgba(0,0,0,0.7612) 1394.50px,rgba(0,0,0,0.7939) 1398.00px,rgba(0,0,0,0.8247) 1401.50px,rgba(0,0,0,0.8536) 1405.00px,rgba(0,0,0,0.8802) 1408.50px,rgba(0,0,0,0.9045) 1412.00px,rgba(0,0,0,0.9263) 1415.50px,rgba(0,0,0,0.9455) 1419.00px,rgba(0,0,0,0.9619) 1422.50px,rgba(0,0,0,0.9755) 1426.00px,rgba(0,0,0,0.9862) 1429.50px,rgba(0,0,0,0.9938) 1433.00px,rgba(0,0,0,0.9985) 1436.50px,rgba(0,0,0,1.0000) 1440.00px);mask-image:linear-gradient(180deg,rgba(0,0,0,1.0000) 0.00px,rgba(0,0,0,0.9985) 3.50px,rgba(0,0,0,0.9938) 7.00px,rgba(0,0,0,0.9862) 10.50px,rgba(0,0,0,0.9755) 14.00px,rgba(0,0,0,0.9619) 17.50px,rgba(0,0,0,0.9455) 21.00px,rgba(0,0,0,0.9263) 24.50px,rgba(0,0,0,0.9045) 28.00px,rgba(0,0,0,0.8802) 31.50px,rgba(0,0,0,0.8536) 35.00px,rgba(0,0,0,0.8247) 38.50px,rgba(0,0,0,0.7939) 42.00px,rgba(0,0,0,0.7612) 45.50px,rgba(0,0,0,0.7270) 49.00px,rgba(0,0,0,0.6913) 52.50px,rgba(0,0,0,0.6545) 56.00px,rgba(0,0,0,0.6167) 59.50px,rgba(0,0,0,0.5782) 63.00px,rgba(0,0,0,0.5392) 66.50px,rgba(0,0,0,0.5000) 70.00px,rgba(0,0,0,0.4608) 73.50px,rgba(0,0,0,0.4218) 77.00px,rgba(0,0,0,0.3833) 80.50px,rgba(0,0,0,0.3455) 84.00px,rgba(0,0,0,0.3087) 87.50px,rgba(0,0,0,0.2730) 91.00px,rgba(0,0,0,0.2388) 94.50px,rgba(0,0,0,0.2061) 98.00px,rgba(0,0,0,0.1753) 101.50px,rgba(0,0,0,0.1464) 105.00px,rgba(0,0,0,0.1198) 108.50px,rgba(0,0,0,0.0955) 112.00px,rgba(0,0,0,0.0737) 115.50px,rgba(0,0,0,0.0545) 119.00px,rgba(0,0,0,0.0381) 122.50px,rgba(0,0,0,0.0245) 126.00px,rgba(0,0,0,0.0138) 129.50px,rgba(0,0,0,0.0062) 133.00px,rgba(0,0,0,0.0015) 136.50px,rgba(0,0,0,0.0000) 140.00px,rgba(0,0,0,0.0000) 1300.00px,rgba(0,0,0,0.0015) 1303.50px,rgba(0,0,0,0.0062) 1307.00px,rgba(0,0,0,0.0138) 1310.50px,rgba(0,0,0,0.0245) 1314.00px,rgba(0,0,0,0.0381) 1317.50px,rgba(0,0,0,0.0545) 1321.00px,rgba(0,0,0,0.0737) 1324.50px,rgba(0,0,0,0.0955) 1328.00px,rgba(0,0,0,0.1198) 1331.50px,rgba(0,0,0,0.1464) 1335.00px,rgba(0,0,0,0.1753) 1338.50px,rgba(0,0,0,0.2061) 1342.00px,rgba(0,0,0,0.2388) 1345.50px,rgba(0,0,0,0.2730) 1349.00px,rgba(0,0,0,0.3087) 1352.50px,rgba(0,0,0,0.3455) 1356.00px,rgba(0,0,0,0.3833) 1359.50px,rgba(0,0,0,0.4218) 1363.00px,rgba(0,0,0,0.4608) 1366.50px,rgba(0,0,0,0.5000) 1370.00px,rgba(0,0,0,0.5392) 1373.50px,rgba(0,0,0,0.5782) 1377.00px,rgba(0,0,0,0.6167) 1380.50px,rgba(0,0,0,0.6545) 1384.00px,rgba(0,0,0,0.6913) 1387.50px,rgba(0,0,0,0.7270) 1391.00px,rgba(0,0,0,0.7612) 1394.50px,rgba(0,0,0,0.7939) 1398.00px,rgba(0,0,0,0.8247) 1401.50px,rgba(0,0,0,0.8536) 1405.00px,rgba(0,0,0,0.8802) 1408.50px,rgba(0,0,0,0.9045) 1412.00px,rgba(0,0,0,0.9263) 1415.50px,rgba(0,0,0,0.9455) 1419.00px,rgba(0,0,0,0.9619) 1422.50px,rgba(0,0,0,0.9755) 1426.00px,rgba(0,0,0,0.9862) 1429.50px,rgba(0,0,0,0.9938) 1433.00px,rgba(0,0,0,0.9985) 1436.50px,rgba(0,0,0,1.0000) 1440.00px)"></div>
 <div class="tile L" style="left:1080px"><div class="Lc">
  <div class="lg2"><svg xmlns="http://www.w3.org/2000/svg" viewBox="0 0 4363.25 1296.64" fill="none" role="img" aria-labelledby="logo-title">
 
@@ -151,13 +151,7 @@ box-shadow:inset 0 0 0 1.5px #E6E8E8,0 1px 0 #ffffff inset,0 2px 0 #d9dcdc,0 4px
 </div></div>
 <div class="tile M" style="left:0">
  <div class="floor" style="top:1120px;margin-left:80px"></div>
- <div class="ph"><div class="scr"><div class="isl"></div><div class="ap ch"><div class="top"><b>Menü Asistanı</b><span class="pill">Masa 4</span></div>
-<div class="msg me">Vejetaryen ne önerirsiniz?</div>
-<div class="msg ai">Fırın sebzeli risotto ve beyaz peynirli salatamızı öneririm. Yanına ev yapımı limonata?</div>
-<div class="pc"><div class="im" style="background:linear-gradient(135deg,#FDE68A,#D97706)"></div><div class="tx"><b>Sebzeli Risotto</b><span>Parmesan, mevsim sebzesi</span></div><div class="pr">₺340</div></div>
-<div class="msg me">Glutensiz mi?</div>
-<div class="msg ai typing"><i></i><i></i><i></i></div>
-<div class="inp">Bir şey sorun…</div></div></div></div>
+ <div class="ph"><div class="scr"><div class="isl"></div><div class="real"><img src="img/plus-chat.png"></div></div></div>
  </div>
 <div class="tile R" style="left:2160px">
  <div class="pw"><div class="tk faq"><div class="hd"><b>En çok sorulanlar</b><em>Bu hafta</em></div>
